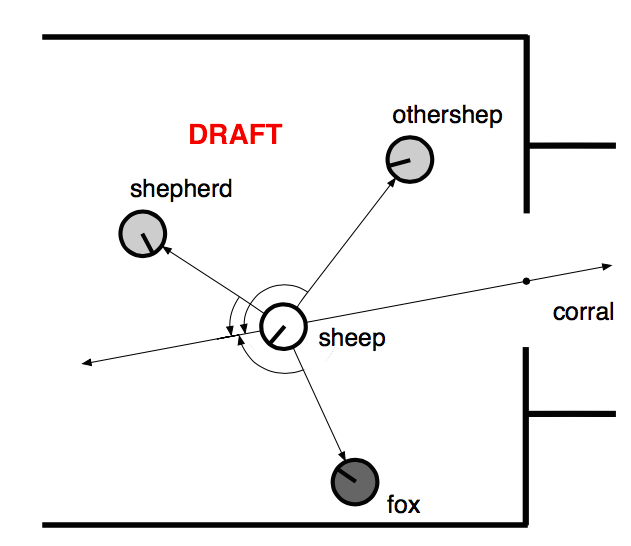
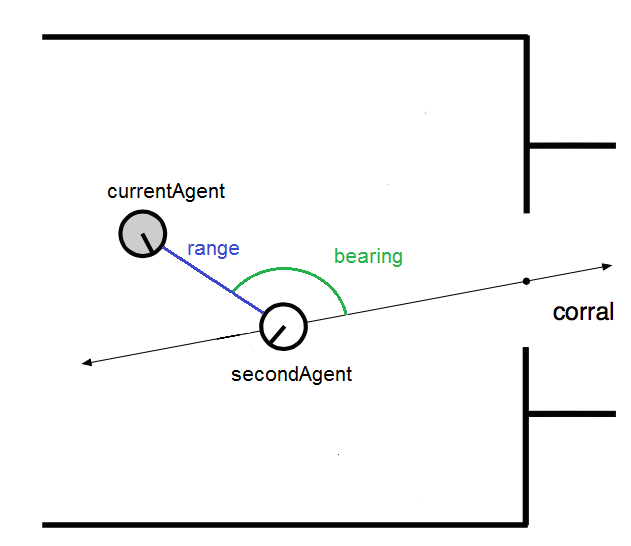
Herding environment added and minor fixes.

diff --git a/report/report.tex b/report/report.tex
@@ -57,7 +57,7 @@ TODO: add what we have discovered!!!!!!!
 \section{Introduction}
 % Evolutionary Algorithms
 \glspl{ea} are biology inspired algorithms that, going through multiple steps (reproduction, mutation, recombination and selection), are able to evolve entities over time.
-Thus, the entities subject to the evolution are referred to as individuals and represent a candidate solution to an optimization problem.
+Thus, the entities subject to the evolution are referred to as individuals and represent candidate solutions to an optimization problem.
 An \gls{ea} measures the quality of individuals using a \textit{fitness function} and its aim is to improve individuals' fitness score along successive generations.
 \gls{er} is a technique that uses \gls{ea}s to develop a policy for an autonomous robot.
 Its main objective is to evolve intelligent robots behaviours required to solve some real-word task.
@@ -69,13 +69,13 @@ The evaluation of the individuals' controllers can be made in a simulation.
 This exploits the computer's computational power in order to evaluate many individuals in a reasonable time frame.
 
 % Solvable tasks
-Tasks composition and complexity can vary based on specific scenarios, in general it is the subject of many studies aiming to solve different tasks.
-For instance, tasks can be relatively small (e.g., moving objects) or more based on collaboration between a number of individuals.
-Research investigates collective behaviour in order to asses to which extent collaboration between individuals is feasible.  
+Tasks composition and complexity can vary based on specific scenarios, and in general it is the subject of many studies aiming to solve different tasks.
+For instance, tasks can be relatively small (e.g., moving objects) or they could be based on collaboration between a number of individuals.
+Research investigates collective behaviour in order to asses the extent to which collaboration between individuals is feasible.  
 
 % Our task/paper
 In this paper, we consider competitive co-evolution within a herding task which consists of a number of shepherds that herd a sheep into a corral.
-We evolve \gls{nn} controllers and assign them to the agents, the latter step can be done with a homogeneous or heterogeneous approach.
+We evolve \gls{nn} controllers and assign them to the agents. The latter step can be done with a homogeneous or heterogeneous approach.
 While the former employs the same controller instance for each agent,
 in the latter each agent gets its own instance of a controller, which is separately evolved by an \gls{ea}.
 Moreover, the task complexity can be increased by varying or introducing new agents like adding a fox.
@@ -85,7 +85,7 @@ We recap our objectives in the following list:
 
 \begin{itemize}
 	\item To compare homogeneity versus heterogeneity.
-	\item To estimate the effect on homo versus heterogeneity of increasingly difficult task.
+	\item To estimate the effect on homo versus heterogeneity of increasingly difficult tasks.
  	\item To develop controlled experiments through software simulations, using ad hoc libraries.
 	\item To collect comprehensive results data.
 \end{itemize}
@@ -96,10 +96,10 @@ In the herding task, shepherds and sheep have opposing goals.
 While the former tries to herd sheep into a corral, the latter tries to escape through the left side of the pasture. 
 Species can be competitively co-evolved in a race to evolve strategies to accomplish opposing goals. 
 Furthermore, the task complexity can be influenced by varying different parameters such as the number of present agents per each type or their relative movement speeds. 
-Another type of dimension used to scale the difficulty is the type of controllers used,
+Another type of dimension used to scale the difficulty is the type of controllers used.
 Instances of different controller types can be either \textit{static} or \textit{intelligent}.
 A \textit{static} controller is simply a predefined set of rules that implements a specific behaviour.
-Although an \textit{intelligent} controller is more complex due to its ability to adept itself over time.
+Meanwhile, an \textit{intelligent} controller is more complex due to its ability to adept itself over time.
 In this paper both the sheep and the shepherds have an \textit{intelligent} controller.
 The intelligence of the controller is based on the assumption that the \gls{nn} is evolved, and thus, the controller has the possibility to adapt to its environment through an evolutionary process. 
 This process, in which many strategies are simulated and evaluated, is comparable to a learning process and enables adaptivity. 
@@ -120,18 +120,23 @@ The following hypothesis are in one to one relationship with the aforementioned 
 	\item The number of shepherds herding one sheep is directly related to their fitness in heterogeneous cases, such that fitness increases as the number of shepherds increases.	
 	\item Increasing the number of sheep herd by a fixed number of shepherds decreases the number of corralled sheep.
 \end{enumerate}
-$H_0$, namely the null hypothesis, is ``Shepherds' fitness in the heterogeneous case is equivalent to the one of the homogeneous''.
-%TODO: add null hyptoesis for H_2 and H_3
+Likewise, $H_0$, namely the corresponding null hypothesis are as follows:
+
+\begin{enumerate}
+	\item Shepherds' fitness in the heterogeneous case is equivalent to the one of the homogeneous
+	\item The number of shepherds herding one sheep does not affect their fitness in heterogeneous cases.
+	\item Increasing the number of sheep herd by a fixed number of shepherds does not affect the number of corralled sheep.
+\end{enumerate}
 
 \subsection{Contributions}
 In this paper we introduce our proposed model for running a herding task in a competitive co-evolution framework. 
 We have built our model and run a thorough set of simulations in order to test the hypothesis detailed in Section~\ref{sec:hypothesis}. 
 In what follows, we list the main contributions of this paper to the state-of-the-art:
 \begin{itemize}
-	\item BLA
-	\item PIZZA
-	\item PASTA
-	\item NESPRESSO....what else?
+	\item We propose fitness functions that reflect the assumed goals for each type of agent
+	\item We implement heterogeneity by fully exploiting the use of \gls{ea}, where each agent is granted with a population. Thus, as the number of agents increases the complexity of the co-evolution process increases as well.
+	\item We operationalize task complexity in co-evolved environments as the ratio between the number of agents of each species.
+	\item We build bridges between \gls{er} and \gls{nn}, and existing libraries and simulators.
 \end{itemize}
 
 This work sheds a tiny light in the topic of competitive co-evolution by showing to which extent it is feasible in a herding task accomplished by robots.
@@ -145,7 +150,7 @@ Finally, in Section \ref{sec:conclusion} we draw some conclusions and point out 
 
 \section{Literature review}
 \label{sec:lit_review}
-In this Section, we survey the main researches in related work, considering the following topics: \textit{co-evolution}, \textit{\acrlong{er} \& neuroevolution} and \textit{homogeneous \& heterogeneous controllers}.
+In this Section, we survey the main researches in related work, considering the following topics: \textit{Co-evolution}, \textit{\acrlong{er} \& Neuroevolution} and \textit{Homogeneous \& Heterogeneous controllers}.
  
 \subsection{Co-evolution}
 Co-evolution in its foundation is a natural phenomena.
@@ -162,10 +167,10 @@ In cooperative co-evolution, different species are evolved, each representing pa
 The individuals in each species have to cooperate in order to come to a solution to a larger problem.
 The advantage of this approach is that it permits a functional decomposition of the task to be solved.
 % competitive co-evolution
-In the competitive co-evolution mode, individuals compete against each other in an environment with limited resources, with the aim to increase its fitness at the expense of other's.
+In competitive co-evolution, individuals compete against each other in an environment with limited resources, with the aim to increase its fitness at the expense of other's.
 With more than one species, it is possible to let entire species compete against each other.
 Competitive co-evolution has the advantage of creating selection pressure.
-The individuals have to adapt to a more and more challenging opponent, so that the fitness landscape changes over time and hopefully becomes harsher to optimize.
+The individuals have to adapt to an increasingly challenging opponent, so that the fitness landscape changes over time thus becoming harsher to optimize.
 Dawkins and Krebs describe in~\cite{dawkins1979arms} the dynamics and terminology for competitive co-evolution by providing examples of manifestations of competitive co-evolution in natural systems. 
 The paper captures the pure essential of competitive co-evolution giving the following description: ``An adaptation in one lineage (e.g. predators) may change the selection pressure on another lineage (e.g. prey), giving rise to a counter-adaptation. If this occurs reciprocally, an unstable runaway escalation or 'arms race' may result''.
 
@@ -179,22 +184,22 @@ Unfortunately evolution of physical entities in a virtual world may suffer from 
 By using physical robots, \gls{er} is able to bridge the reality gap but at expenses of deployment time
 
 % Neuroevolution
-\textit{Neuroevolution} is a set of techniques that uses \glspl{ea} to train an \gls{ann}.
-It is widely applied in domain where an exhaustive mapping of the correct input and output is hard to define.
+\textit{Neuroevolution} is a set of techniques that uses \glspl{ea} to train \gls{nn}'s.
+It is widely applied in domains where an exhaustive mapping of the correct input and output is hard to define.
 Therefore neuroevolution uses only the performance at the task to train a network (e.g. the fitness score).
-Floreano in \cite{floreano2008neuroevolution} classifies three classes of genetic encoding of an \gls{ann}: direct, developmental and implicit.
+Floreano in \cite{floreano2008neuroevolution} classifies three classes of genetic encoding of an \gls{nn}: direct, developmental and implicit.
 This genetic encoding may represent not only the synaptic weights of the network, but also its topology.
 The algorithms that evolve the network's topology and its parameters simultaneously are called \gls{tweann} algorithms.
 %get some paper showing simple evolution of NNs
-Neuroevolution has been applied with success in different domains like video games \cite{stanley2005real} \cite{hausknecht2014neuroevolution}, collective self-organization \cite{nitschke2008neuro} \cite{nitschke2010collective} and common robotics tasks %TODO add citations
+Neuroevolution has been applied with success in different domains like video games \cite{stanley2005real} \cite{hausknecht2014neuroevolution}, collective self-organization \cite{nitschke2008neuro} \cite{nitschke2010collective} and common robotics tasks. %TODO add citations
 In~\cite{stanley2004competitive}, the authors show that through the complexification of agent controllers in a competitive co-evolutionary setting, the controller's added complexity can be utilized through the generation of more advanced strategies as complexity increases. 
-Complexification of the controllers was managed by increasing the size of the \gls{ann} gradually during the evolution run.
+Complexification of the controllers was managed by increasing the size of the \gls{nn} gradually during the evolution run.
 Resizing the network was achieved using \gls{neat}.
-\gls{neat} allows for the addition of connections and or nodes to a \gls{nn} while maintaining learned behaviours by keeping the encoded information in the resized \gls{nn} very close to its previous state.
+\gls{neat} allows for the addition of connections and/or nodes to a \gls{nn} while maintaining learned behaviours by keeping the encoded information in the resized \gls{nn} very close to its previous state.
 
 \subsection{Homogeneous \& Heterogeneous Controllers}
 \cite{potter2001heterogeneity} performed a study to a tradeoff of homogeneity versus heterogeneity in the control systems of robots by allowing teams to coevolve their high-level controllers given different levels of difficulty of the task.
-The hypothesis was ``simply increasing the difficulty of a task is not enough to induce a team of robots to create specialists''.
+The hypothesis was ``Simply increasing the difficulty of a task is not enough to induce a team of robots to create specialists''.
 Task difficulty was varied by replacing one adversary's passive controller with an active variant supposedly proving that increased difficulty did not justify the use of heterogeneous controllers.
 However, increased difficulty was never implemented structurally nor tested methodologically. 
 
@@ -208,7 +213,7 @@ The herding task involves shepherd agents trying to push sheep agents into a cor
 %In particular, the positioning system used to control and direct movements of the agents, is described in Section~\ref{sec:positioning_system}. 
 % NN_design
 Controllers of both shepherds and sheep are modelled differently in a high level manner using NNs.
-The NN designs are explained in Section~\ref{sec:NN_design} and how the evolution process is detailed in Section~\ref{sec:controllers_evolution}.
+The NN designs are explained in Section~\ref{sec:NN_design} and the evolution process is detailed in Section~\ref{sec:controllers_evolution}.
 % obstacle_avoidance + NN_output_interpretation
 Agents have a simple obstacle avoidance system that allows them to interact with each other, bump into walls and makes the shepherd capable of herding the sheep.
 Furthermore, in order to move agents using the output of the NN controllers, the NN output has to be translated into Cartesian coordinates.
@@ -217,14 +222,14 @@ Both steps are specified in Section~\ref{sec:agents_design}.
 \subsection{Herding task and environment}
 \label{sec:herding_task_environment}
 % herding task + environment
-The task domain is herding (a sub-domain of the more general pursuit evasion task).
+The task domain is herding (a sub-domain of the more general pursuit-evasion task).
 %TODO do we need some source for this evasion task?
 Our objective is to simulate shepherd agents trying to push sheep agents into a corral. 
 The environment consists of a $l \times l$ squared pasture with fences on the top and bottom.
 The corral is positioned on the right side, and the pasture is open on the left side for the sheep to escape.
 % Task complexity
-We modulate the task complexity by controlling the number of agents of each type that take part in the task, respectively $D$ for the shepherds (or dogs) and $S$ for the sheep.
-Thus, we deploy it as the shepherd to sheep ratio, defined as $\phi = D / S$, where an increased ratio implies a more complex task for the shepherds.
+We modulate the task complexity by controlling the number of agents of each type that take part in the task, $D$ for the shepherds (or dogs) and $S$ for the sheep.
+Thus, we deploy it as the sheep to shepherd, defined as $\phi = S / D$, where an increased ratio implies a more complex task for the shepherds.
 
 % Positioning system
 We use an agent centred polar coordinate system where an agent's position is relative to a second agent of the same type (i.e., shepherd or sheep).
@@ -232,7 +237,7 @@ The coordinate system's polar axis passes through the center of the corral and t
 Within this system, a coordinate pair is defined as $\mathbf{p} = (r, b)$, where $r$ is the distance to the second agent (range) and $b$ is the angle from between the two agents, relative to the polar axis (bearing).
 In order to define the position of a group of sheep, we take into account the center of mass $\mathbf{gc}$, which is equal to the position of the sheep when only one sheep is present.
 % explain how we calculate the gc
-The center the sheep group is calculated like the center of mass of a particle system, as following:
+The center for the sheep group is calculated like the center of mass of a particle system, as following:
 \begin{equation} \label{eq:gc}
 \mathbf{gc} = \frac{1}{S} \sum_{i=1}^{S}{\mathbf{x_i}}
 \end{equation}
@@ -258,7 +263,7 @@ In the case of a \textit{single-pair} network, an agent can only see one other a
 This network is showed in Figure~\ref{fig:single_pair_topology}.
 The input nodes are labelled \textit{opponent} because the input given to the network represents coordinates of an opposing agent.
 % Multi-pair NN
-Alternatively, to enable an agent to cooperate with its allies, we assign to it a \textit{multi-pair} neural network, with four input nodes for the coordinate, and five nodes in its hidden layer.
+Alternatively, to enable an agent to cooperate with its allies, we assign to it a \textit{multi-pair} neural network, with four input nodes for the \textit{coordinate pairs}, and five nodes in its hidden layer.
 This NN design is shown in Figure~\ref{fig:multi_pair_topology}.
 The input nodes are labelled \textit{opponent} and \textit{ally} because the inputs given to the network represent coordinates of one opponent and one ally.
 
@@ -285,7 +290,7 @@ Finally, the output of the NN has a range from $(0, 1)$, so in order to convert 
 % Shepherds controllers
 \subsubsection{Shepherds controllers}
 Shepherds evolve \textit{cooperative} behaviours among themselves to successfully herd sheep.
-Therefore, the \textit{competitive} behaviour is against the sheep, who temps to escape. 
+Therefore, the \textit{competitive} behaviour is against the sheep, who attemps to escape. 
 In order to pursue cooperation, a shepherd needs information about the other shepherds around. 
 However, in order to keep the network complexity low we only provide the controller with information for the closest shepherd. 
 Similarly, the competition creates the need for the shepherd to have information about the sheep.
@@ -323,14 +328,14 @@ The algorithm used to evolve the controllers follows the framework of evolution 
 We use the ($\mu + \lambda$) strategy, with $\mu = 10$ and $\lambda = 100$~\cite{eiben2003introduction}. 
 An ($\mu + \lambda$) ES generates $\lambda$ children from a population of $\mu$ individuals by mutating them; therefore no crossover operator is used.
 The $\mu + \lambda$ children are then evaluated and the best $\mu$ individuals among them are selected for the next generation.
-The genome is a real-valued vector representing the connection weights of the neural network
+The genome is a real-valued vector representing the connection weights of the neural network.
 The genome can be of two sizes (depending on the scenario): $17$ for the \textit{simple-pair} network and $37$ for the \textit{multi-pair} network. 
 Furthermore, each individual in a population is evaluated with the best individuals from the other populations, following an elitist approach.
 Different fitness functions are created for each type of agent, we hereby explain each of them and motivate its design.
 
 \vspace{0.5em}
 \subsubsection{Shepherd fitness function}
-In order to show the shepherd fitness function, we introduce here~\eqref{eq:gcDist}, the euclidean distance from the sheep center of group mass $gc$ (see Section~\ref{sec:herding_task_environment}) to the corral position $cr$.
+In order to show the shepherd fitness function, Equation~\eqref{eq:gcDist} introduces the euclidean distance from the sheep center of group mass $gc$ (see Section~\ref{sec:herding_task_environment}) to the corral position $cr$.
 Given $t$ as an incremental index of the simulation time steps, it is defined as:
 % GROUP CENTER OF MASS DISTANCE
 \begin{equation} \label{eq:gcDist}
@@ -365,10 +370,10 @@ The fitness for a sheep is determined by its own distance to the corral.
 sd(t) = \sqrt{(cr_x - sheep_x(t))^2 + (cr_y - sheep_y(t))^2}
 \end{equation}
 In scenarios involving more than one sheep, a group component is added to motivate sheep to stay together. 
-This is the ratio $\phi$ of the group calculated as the distance from the furthest sheep $\alpha$ to the center of mass $gc$ in a specific time step. 
+This is the radius $\rho$ of the group calculated as the distance from the furthest sheep $\alpha$ to the center of mass $gc$ in a specific time step. 
 % SHEEP RATIO
 \begin{equation} \label{eq:sheep_ratio}
-\phi(t) = \sqrt{(\alpha_x(t) - gc_x(t))^2 + (\alpha_y - gc_y(t))^2}
+\rho(t) = \sqrt{(\alpha_x(t) - gc_x(t))^2 + (\alpha_y - gc_y(t))^2}
 \end{equation}
 Similarly to the shepherds, bonuses and penalties are given when a sheep escapes or is corralled, accordingly:
 % SHEEP BONUS
@@ -383,19 +388,19 @@ Where $T$ is the number of total steps (1500 in our experiments) and $t$ is the 
 Since larger distances but smaller ratios are desired, the fitness function is determined as the individual distance minus the group ratio, added over the simulation time steps. 
 % SHEEP FITNESS
 \begin{equation} \label{eq:sheep_fitness}
-f_{sheep}(x) = \sum_{i=1}^{1500}(sd(i) - {RR} \phi(i))
+f_{sheep}(x) = \sum_{i=1}^{1500}(sd(i) - {RR} \rho(i))
 \end{equation}
-where $0 \leq RR \geq 1$ is a constant that controls the weight of the sheep-radius component on the sheep's fitness score.
+where $0 \leq RR \leq 1$ is a constant that controls the weight of the sheep-radius component on the sheep's fitness score.
 
 
 \subsection{Agents}
 \label{sec:agents_design}
 % Obstacle avoidance
-The output of the NN produce a target direction for the agents to move towards.
+The output of the NN produces a target position for the agents to move towards.
 However, both types of agents have an obstacle avoidance mechanism that may override the network's output, hindering an agent's movement when necessary.
-To achieve this each agent is provided with a \textit{radius} which allows to push other agents with a smaller radius.
+To achieve this, each agent is provided with a \textit{radius} which allows to push other agents with a smaller radius.
 Obstacles entering this radius hinder the agent from moving in this direction and will reposition the agent preventing overlap between object and radius.
-We assign a greater radius to the shepherd then to the sheep, by doing so we allow the shepherd to push, and thus herd, the sheep towards the corral.
+We assign a greater radius to the shepherd than to the sheep, by doing so we allow the shepherd to push, and thus herd, the sheep towards the corral.
 
 % Interpreting the Neural Network output
 Since the output of the network is represented as polar coordinates centred with the polar axis passing through the nearest opponent, they are translated into Cartesian coordinates within the pasture to calculate the agents target position.
@@ -428,10 +433,10 @@ This is equivalent to $1500$ simulation steps in which the agents refresh their 
 To do so, an agent firstly acquires its inputs and then propagates them through its neural network computing a new target position that the simulation environment will translate in forces to be applied to the agent's virtual body.
 
 
-
+\vspace{0.5em}
 \subsubsection{Environment and Agents}
 The size of the pasture is fixed across all the experiments at $l = 37$ simulated units.
-As already stated in \ref{sec:agents_design}, the shepherd is equipped with a greater radius than the sheep's.
+As already stated in Section \ref{sec:agents_design}, the shepherd is equipped with a greater radius than the sheep's.
 This is to allow them to effectively herd the sheep by rimming and pushing it towards the corral.
 Therefore we assign a radius of $3$ and $2$ simulation units to the shepherd and to the sheep respectively.
 The pasture is closed on the top and bottom sides, with the corral positioned on the right side, opposite to an open side that enables the sheep to escape.
@@ -470,14 +475,14 @@ For example, in a scenario with two shepherds and one sheep, there is a total of
 \subsection{Performance details}
 \label{sec:experiments_performances}
 In this section we present the results of the experiments run using the implementation detailed in Section~\ref{sec:implementation}.
-% Homo vs Etero experiment
+% Homo vs Hetero experiment
 \vspace{0.5em}
-\subsubsection{Homo vs Hetero}
-We first consider two experiments that relate to $H_1$, here the IV is the controller type (homo or hetero).
-Note that the first and the second run involves respectively 2 and 3  shepherds.
-Figure~\ref{fig:2v1_homo_vs_hetero} reports the former case, while Figure~\ref{fig:3v1_homo_vs_hetero} the latter.
-In order to provide a statistical point of view, we perform \textit{t}-test on the means of the homogeneous and heterogeneous trials, which produced a \textit{p}-value $\ll0.5$ for both cases.
-Thus, supported by the significant difference between the homogeneous and heterogeneous cases, we reject the null hyptoesis (see Section~\ref{sec:hypothesis}).
+\subsubsection{Homogeneity vs Heterogeneity}
+We first consider two experiments that relate to $H_1$. Here the independent variable is the controller type (homo or heterogeneous).
+Figure~\ref{fig:2v1_homo_vs_hetero} reports the performance on a scenario with two shepherds and one sheep, while Figure~\ref{fig:3v1_homo_vs_hetero} reports a performance on a scenario with three shepherds and one sheep.
+From a statistical point of view, we perform \textit{t}-test on the means of the homogeneous and heterogeneous trials. The test  produced a \textit{p}-value $\ll0.5$ for both cases.
+Thus, supported by the significant difference between the homogeneous and heterogeneous cases, we reject the corresponding null hypothesis (see Section~\ref{sec:hypothesis}).
+Additionally, both graphs show that homogeneous controllers outperform heterogeneous controllers. Thus, we reject hypothesis $H_1$ as well. 
 
 \begin{figure}[ht]
 	\centering
@@ -559,7 +564,7 @@ Thus, supported by the significant difference between the homogeneous and hetero
 
 \section{Conclusion}
 \label{sec:conclusion}
-The conclusion goes here.
+Given the above information, we conclude that shepherds benefit from homogeneous controllers in a competitive co-evolved herding task. 
 
 
 
